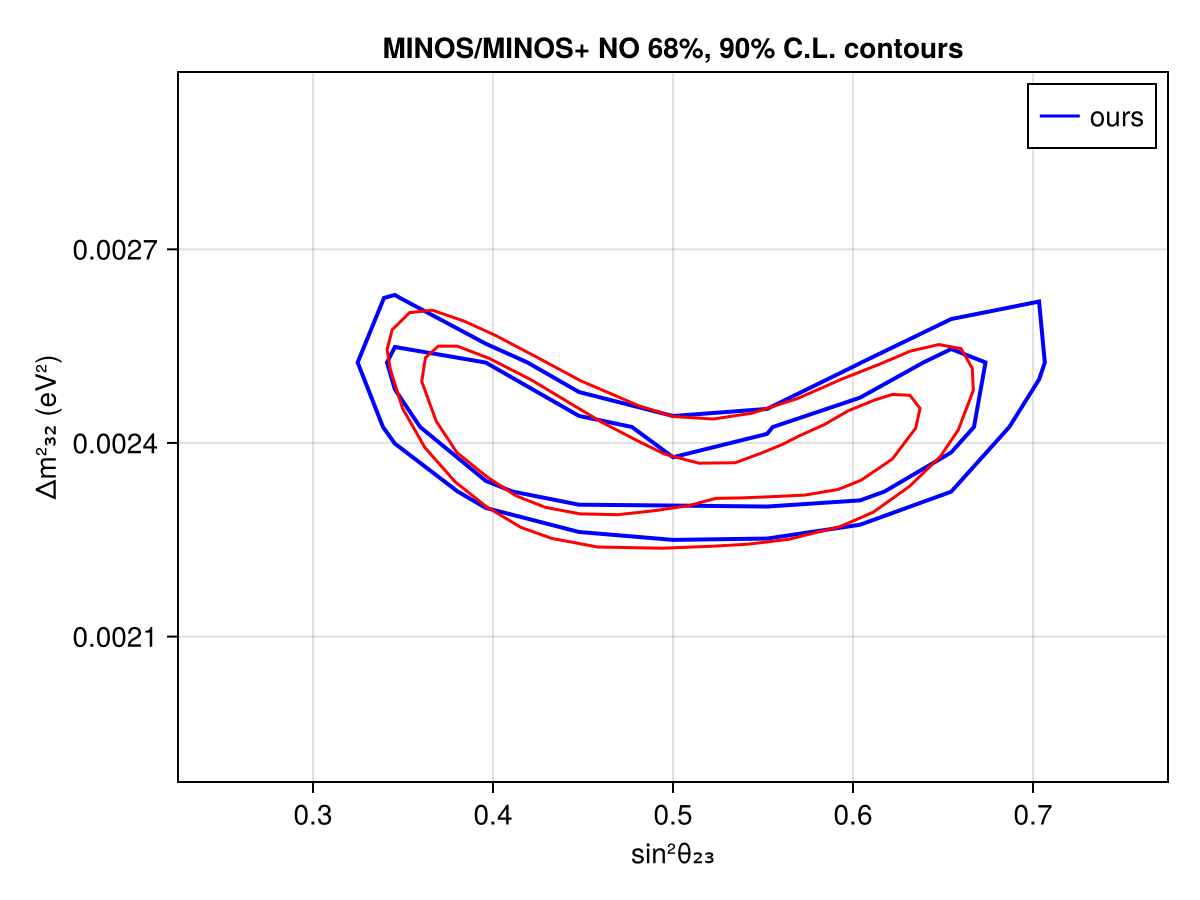
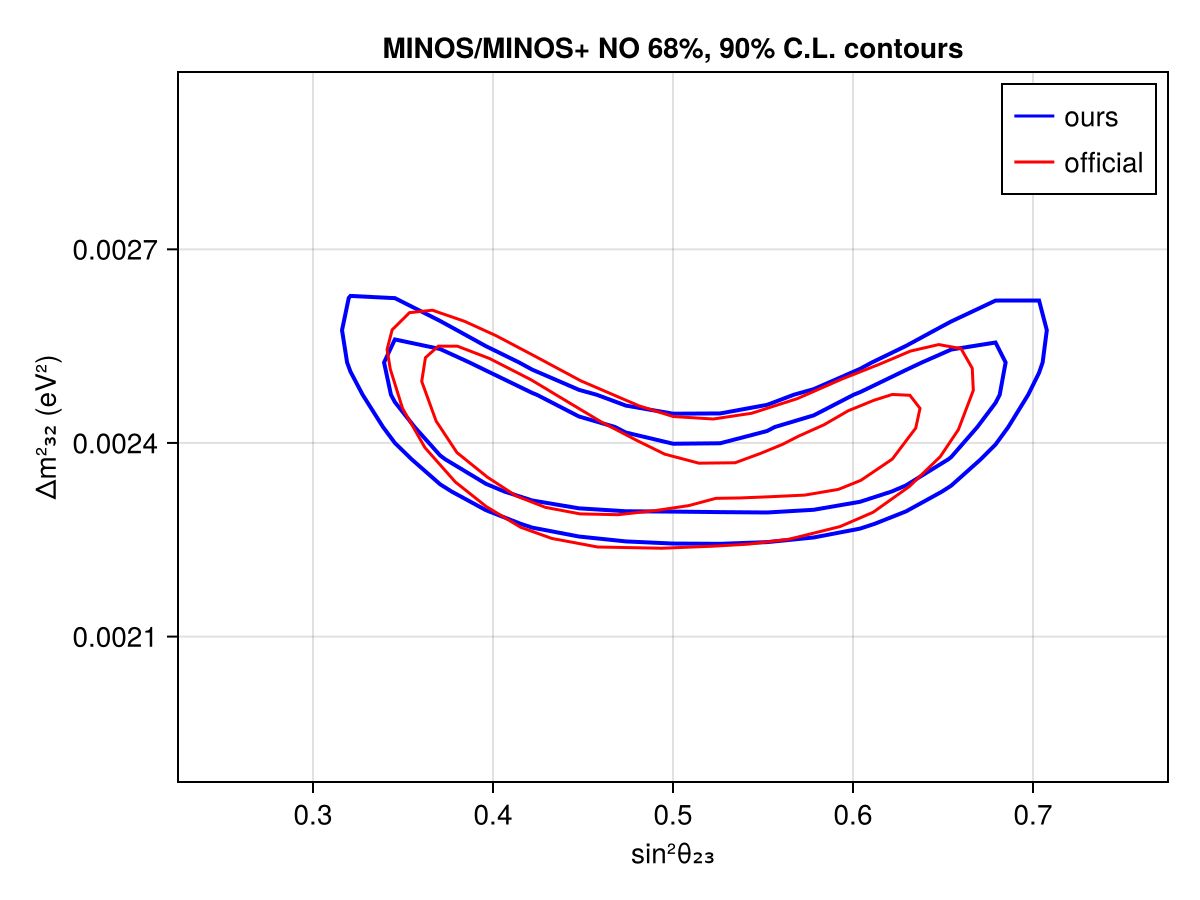
update minos

diff --git a/src/experiments/minos/minos_sterile_16e20_POT/README.md b/src/experiments/minos/minos_sterile_16e20_POT/README.md
@@ -8,14 +8,14 @@ Data from supplemental files in https://arxiv.org/abs/1710.06488
 ![DataMC](test_output/datamc.png)
 ## Meta Information
 - **repo_clean**: false
-- **exec_time**: 12.517817974090576
+- **exec_time**: 29.882673978805542
 - **username**: peller
 - **repo**: /mnt/c/Users/peller/work/Newtrinos
 - **cache_dir**: test
 - **hostname**: flippy
 - **params**: (nc_norm = 1.0, nutau_cc_norm = 1.0, Δm²₂₁ = 7.53e-5, Δm²₃₁ = 0.0024752999999999997, δCP = 1.0, θ₁₂ = 0.5872523687443223, θ₁₃ = 0.1454258194533693, θ₂₃ = 0.8556288707523761)
-- **date**: 2025-10-07 11:20:51
+- **date**: 2025-10-07 11:46:00
 - **task**: profile
-- **vars_to_scan**: OrderedDict{Any, Any}(:θ₂₃ => 11, :Δm²₃₁ => 11)
-- **commit_hash**: fe3db4e27ed4049ad5ab3973c2cf826996ba6d0c
-- **priors**: (nc_norm = 1.0, nutau_cc_norm = Truncated(Normal{Float64}(μ=1.0, σ=0.2); lower=0.4, upper=1.6), Δm²₂₁ = 7.53e-5, Δm²₃₁ = Uniform{Float64}(a=0.002, b=0.003), δCP = 1.0, θ₁₂ = 0.5872523687443223, θ₁₃ = Uniform{Float64}(a=0.1, b=0.2), θ₂₃ = Uniform{Float64}(a=0.5235987755982988, b=1.0471975511965976))
+- **vars_to_scan**: OrderedDict{Any, Any}(:θ₂₃ => 21, :Δm²₃₁ => 21)
+- **commit_hash**: a308b8d7d4e22123eb765d714f43adb63de6b1a9
+- **priors**: (nc_norm = 1.0, nutau_cc_norm = Truncated(Normal{Float64}(μ=1.0, σ=0.2); lower=0.4, upper=1.6), Δm²₂₁ = 7.53e-5, Δm²₃₁ = Uniform{Float64}(a=0.002, b=0.003), δCP = 1.0, θ₁₂ = 0.5872523687443223, θ₁₃ = Truncated(Normal{Float64}(μ=0.156, σ=0.008); lower=0.13, upper=0.18), θ₂₃ = Uniform{Float64}(a=0.5235987755982988, b=1.0471975511965976))
